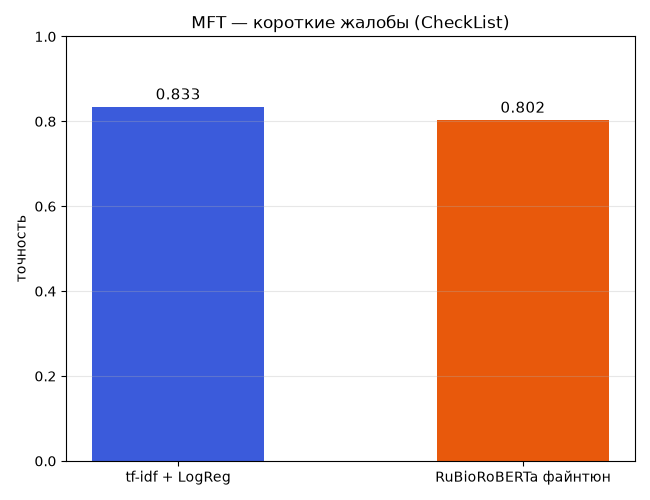
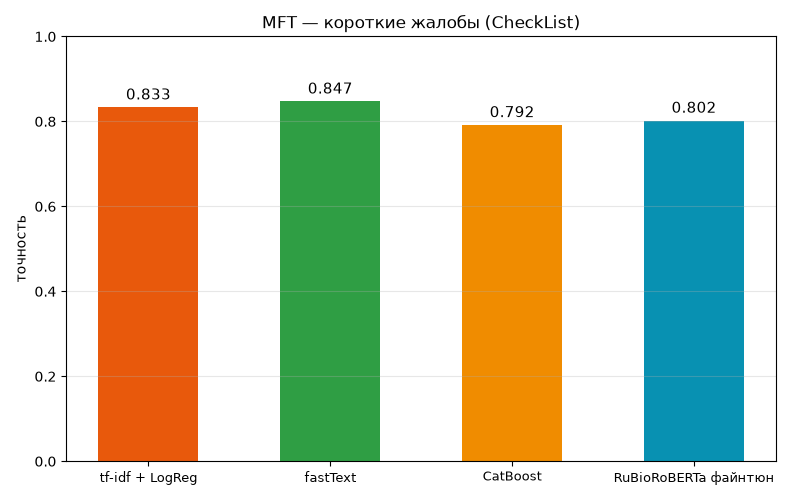
add fastText and CatBoost to MFT and robustness eval

diff --git a/src/viz/plot_behavioral.py b/src/viz/plot_behavioral.py
@@ -5,36 +5,36 @@ import matplotlib.pyplot as plt
 import numpy as np
 
 from ..config import REPORTS_DIR as REPORTS
-MODELS = {"baseline": "tf-idf + LogReg", "rubioroberta_ft": "RuBioRoBERTa файнтюн"}
+MODELS = {
+    "baseline": "tf-idf + LogReg",
+    "fasttext": "fastText",
+    "catboost": "CatBoost",
+    "rubioroberta_ft": "RuBioRoBERTa файнтюн",
+}
+COLORS = {"baseline": "#e8590c", "fasttext": "#2f9e44", "catboost": "#f08c00", "rubioroberta_ft": "#0891b2"}
 BLUE, ORANGE = "#3b5bdb", "#e8590c"
-C_BASE, C_FT = "#e8590c", "#0891b2"
 
 
 def plot_by_group() -> None:
     data = json.loads((REPORTS / "behavioral.json").read_text(encoding="utf-8"))["mft"]
-    base, ft = data["baseline"]["per_group"], data["rubioroberta_ft"]["per_group"]
-    order = sorted(base, key=lambda g: ft[g])
+    order = sorted(data["baseline"]["per_group"], key=lambda g: data["rubioroberta_ft"]["per_group"][g])
     y = np.arange(len(order))
-    b = np.array([base[g] for g in order])
-    f = np.array([ft[g] for g in order])
+    n = len(MODELS)
+    height = 0.8 / n
 
-    fig, ax = plt.subplots(figsize=(9, 5.5))
-    ax.hlines(y, b, f, color="#cbd5e1", lw=2.5, zorder=1)
-    ax.scatter(b, y, s=90, color=C_BASE, zorder=2, label="baseline")
-    ax.scatter(f, y, s=90, color=C_FT, zorder=2, label="трансформер")
+    fig, ax = plt.subplots(figsize=(9, 6))
+    for i, name in enumerate(MODELS):
+        vals = [data[name]["per_group"][g] for g in order]
+        offset = (i - (n - 1) / 2) * height
+        ax.barh(y + offset, vals, height, color=COLORS[name], label=MODELS[name])
     ax.axvline(0.70, color="#94a3b8", ls="--", lw=1)
-    ax.text(0.71, 0.15, "порог 0.70", color="#64748b", fontsize=9, va="center")
-    for yi, g in zip(y, order):
-        lo, hi = sorted([base[g], ft[g]])
-        ax.text(lo - 0.012, yi, f"{lo:.2f}", ha="right", va="center", fontsize=8.5, color="#334155")
-        if hi > lo:
-            ax.text(hi + 0.012, yi, f"{hi:.2f}", ha="left", va="center", fontsize=8.5, color="#334155")
+    ax.text(0.71, y[-1] + 0.5, "порог 0.70", color="#64748b", fontsize=9, va="center")
 
     ax.set_yticks(y, order)
-    ax.set_xlim(0.30, 1.06)
+    ax.set_xlim(0, 1.08)
     ax.set_xlabel("accuracy (по 36 кейсов на группу)")
     ax.set_title("MFT — точность по группам: где проседает каждая модель")
-    ax.legend(loc="upper left", framealpha=0.9)
+    ax.legend(loc="upper left", framealpha=0.9, fontsize=8.5)
     ax.grid(axis="x", alpha=0.25)
     for s in ("top", "right", "left"):
         ax.spines[s].set_visible(False)
@@ -52,10 +52,10 @@ def main() -> None:
     acc = [data[m]["accuracy"] for m in names]
     x = np.arange(len(names))
 
-    fig, ax = plt.subplots(figsize=(6.5, 5))
-    bars = ax.bar(x, acc, 0.5, color=[BLUE, ORANGE])
+    fig, ax = plt.subplots(figsize=(8, 5))
+    bars = ax.bar(x, acc, 0.55, color=[COLORS[m] for m in names])
     ax.bar_label(bars, fmt="%.3f", padding=3, fontsize=11)
-    ax.set_xticks(x, [MODELS[m] for m in names])
+    ax.set_xticks(x, [MODELS[m] for m in names], fontsize=9)
     ax.set_ylim(0, 1.0)
     ax.set_ylabel("точность")
     ax.set_title("MFT — короткие жалобы (CheckList)")

diff --git a/src/models/catboost_clf.py b/src/models/catboost_clf.py
@@ -1,6 +1,7 @@
 """CatBoost поверх fastText-эмбеддингов документов."""
 import argparse
 
+import numpy as np
 from catboost import CatBoostClassifier
 from gensim.models import FastText
 
@@ -16,6 +17,7 @@ from ..evaluation.metrics import (
     save_report,
     scores,
 )
+from .base import BaseClassifier
 from .fasttext_clf import doc_vectors, tokenize, train_embeddings
 from ..mapping import GROUPS
 
@@ -28,6 +30,25 @@ def load_or_train_embeddings(train_tokens: list[list[str]]) -> FastText:
     if path.exists():
         return FastText.load(str(path))
     return train_embeddings(train_tokens)
+
+
+class CatBoostGroupClassifier(BaseClassifier):
+    """CatBoost поверх fastText-эмбеддингов, модели читаются из models/."""
+
+    name = NAME
+
+    def __init__(self) -> None:
+        self._ft = FastText.load(str(MODELS / "fasttext.model"))
+        self._clf = CatBoostClassifier()
+        self._clf.load_model(str(MODELS / f"{NAME}.cbm"))
+
+    def predict_proba(self, texts: list[str]) -> np.ndarray:
+        tokens = [tokenize(t) for t in texts]
+        return self._clf.predict_proba(doc_vectors(self._ft, tokens))
+
+    @property
+    def classes(self) -> list[str]:
+        return list(self._clf.classes_)
 
 
 def main(eval_split: str = "dev") -> None:

diff --git a/src/models/fasttext_clf.py b/src/models/fasttext_clf.py
@@ -20,6 +20,7 @@ from ..evaluation.metrics import (
     scores,
 )
 from ..mapping import GROUPS
+from .base import BaseClassifier
 
 NAME = "fasttext"
 SEED = 42
@@ -54,6 +55,24 @@ def doc_vectors(model: FastText, docs: list[list[str]]) -> np.ndarray:
         if vecs:
             out[i] = np.mean(vecs, axis=0)
     return out
+
+
+class FastTextClassifier(BaseClassifier):
+    """субсловные эмбеддинги + LogReg, модели читаются из models/."""
+
+    name = NAME
+
+    def __init__(self) -> None:
+        self._ft = FastText.load(str(MODELS / f"{NAME}.model"))
+        self._clf = joblib.load(MODELS / f"{NAME}_clf.joblib")
+
+    def predict_proba(self, texts: list[str]) -> np.ndarray:
+        tokens = [tokenize(t) for t in texts]
+        return self._clf.predict_proba(doc_vectors(self._ft, tokens))
+
+    @property
+    def classes(self) -> list[str]:
+        return list(self._clf.classes_)
 
 
 def main(eval_split: str = "dev") -> None:

diff --git a/src/viz/plot_robustness.py b/src/viz/plot_robustness.py
@@ -5,7 +5,12 @@ import matplotlib.pyplot as plt
 import numpy as np
 
 from ..config import REPORTS_DIR as REPORTS
-MODELS = {"baseline": "tf-idf + LogReg", "rubioroberta_ft": "RuBioRoBERTa\nфайнтюн"}
+MODELS = {
+    "baseline": "tf-idf + LogReg",
+    "fasttext": "fastText",
+    "catboost": "CatBoost",
+    "rubioroberta_ft": "RuBioRoBERTa\nфайнтюн",
+}
 
 
 def main() -> None:
@@ -16,7 +21,7 @@ def main() -> None:
 
     x = np.arange(len(names))
     width = 0.38
-    fig, ax = plt.subplots(figsize=(8, 5.5))
+    fig, ax = plt.subplots(figsize=(9.5, 5.5))
     b1 = ax.bar(x - width / 2, orig, width, label="оригинальный test", color="#3b5bdb")
     ax.bar(x + width / 2, para, width, label="перефраз (свободная речь)", color="#e8590c")
 
